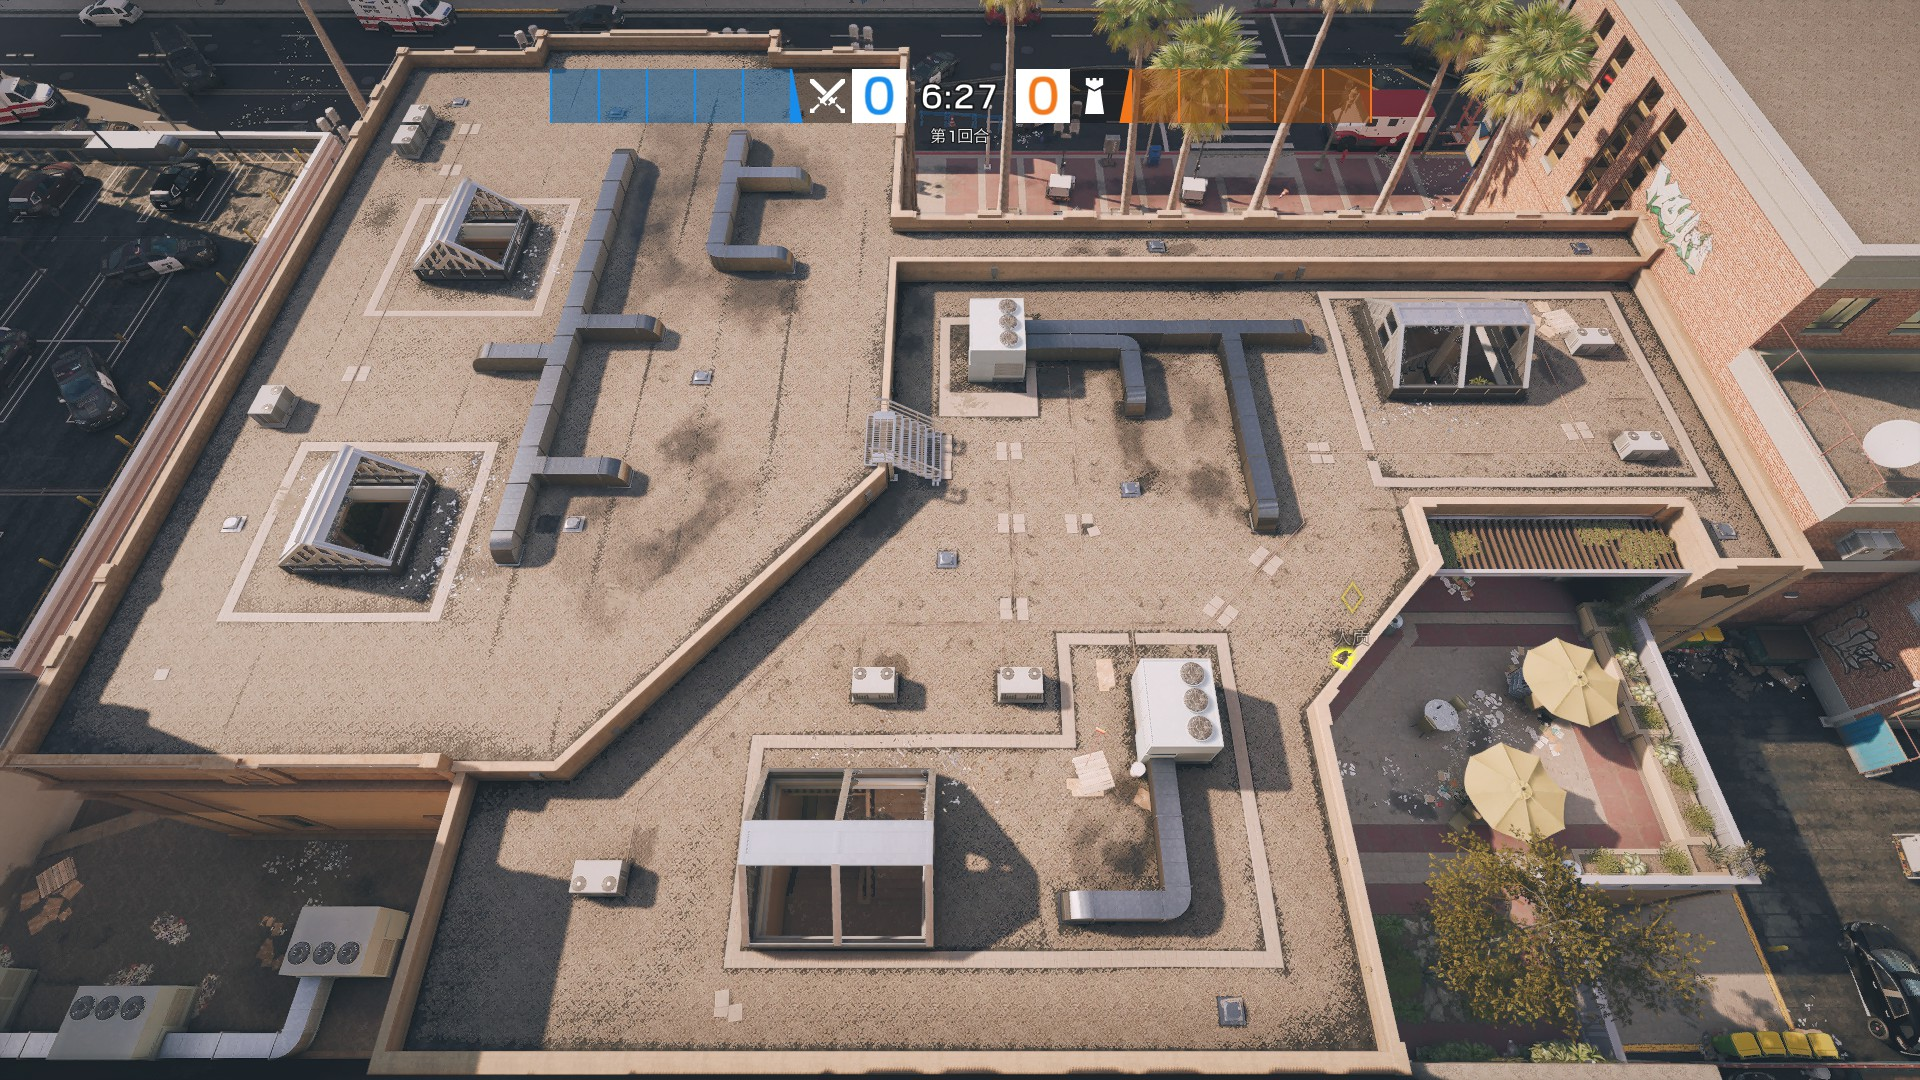
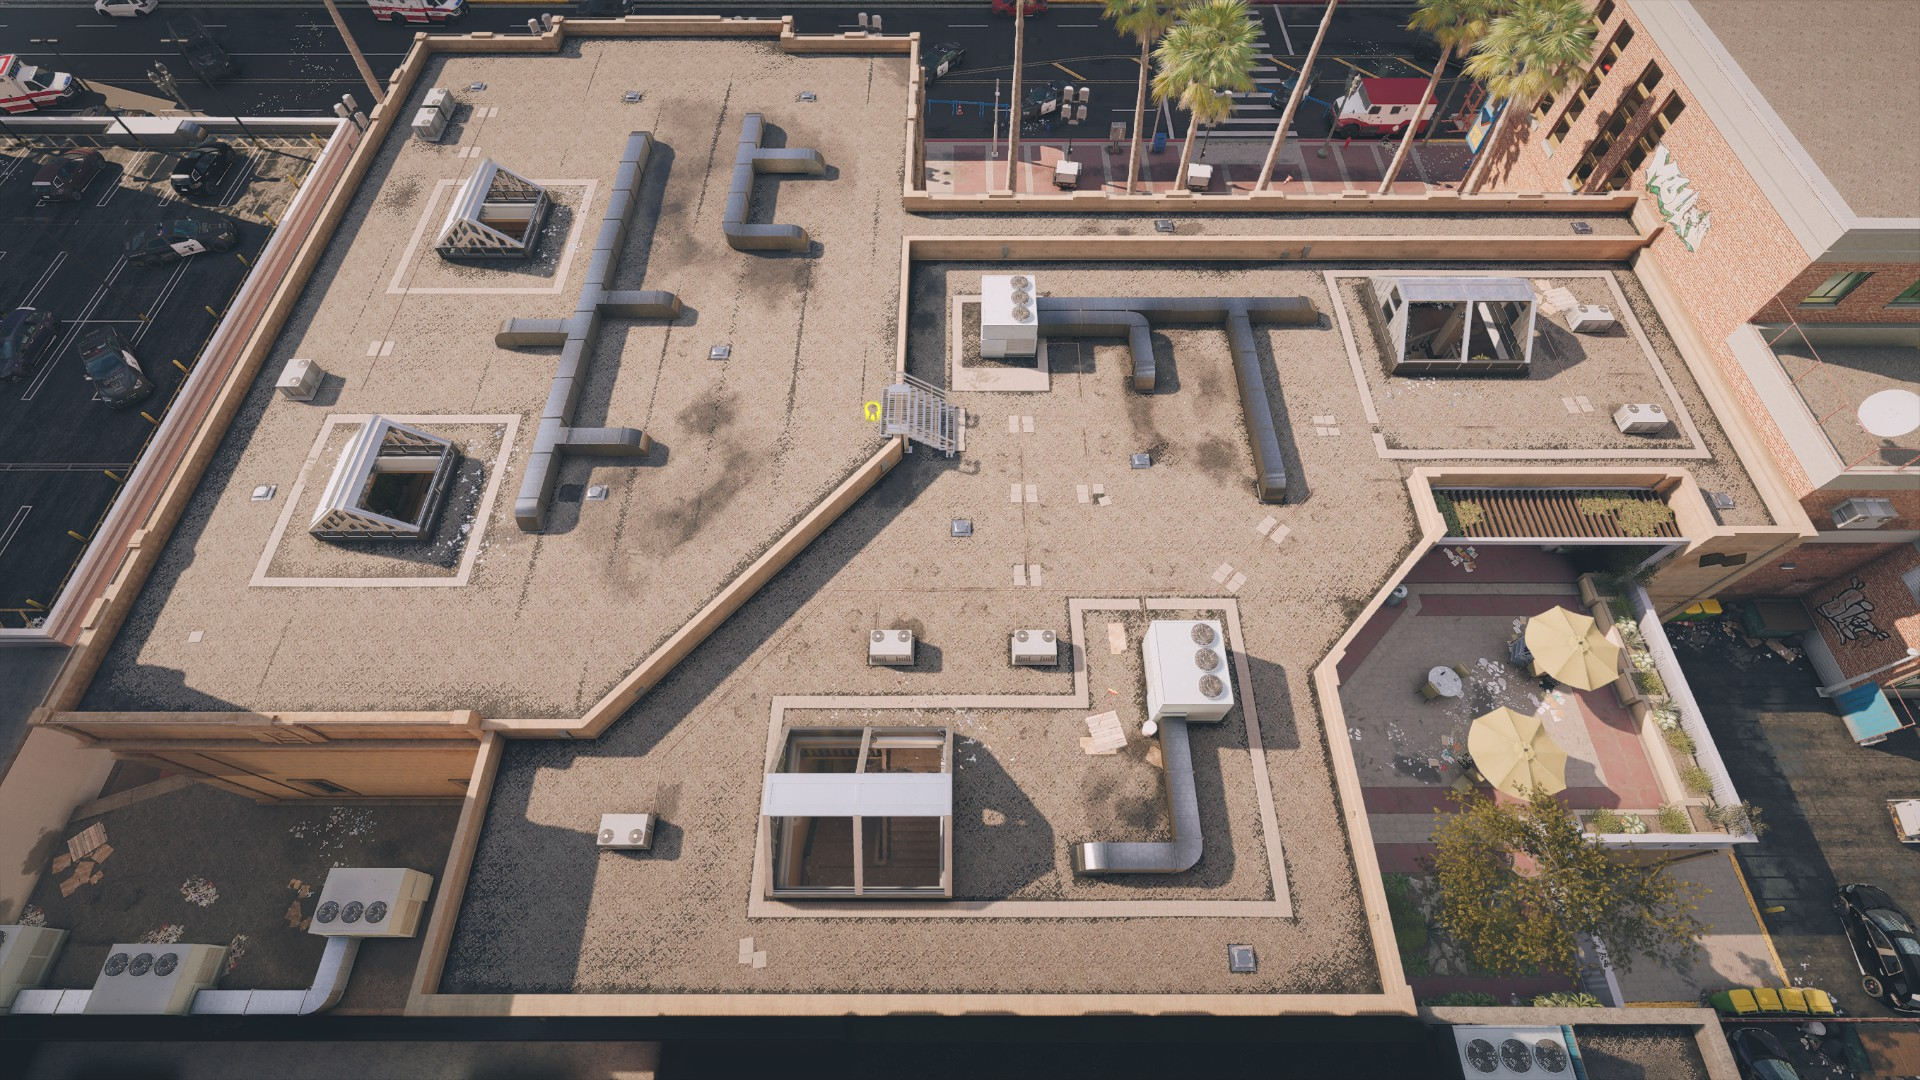
added mobile zoom, changed mobile style, replaced bank image

diff --git a/src/views/AppMap.vue b/src/views/AppMap.vue
@@ -1,6 +1,6 @@
 <template>
   <div class="has-background-black-bis" @wheel="onZoom($event)">
-    <v-stage v-if="this.$store.state.map" @load="addPinchZoom" ref="konva" :config="konvaConfig">
+    <v-stage ref="konva" :config="konvaConfig">
       <v-layer v-for="layer in this.$store.state.layers" :key="layer.id">
         <v-image
           v-if="layer.enabled && layer.complete"
@@ -14,6 +14,7 @@
 <script lang="ts">
 import { Component, Prop, Vue } from 'vue-property-decorator';
 import Konva from 'konva';
+import { Vector2d } from 'konva/types/types';
 
 @Component({
   components: {}
@@ -22,7 +23,7 @@ export default class AppMap extends Vue {
   public konvaConfig = {
     width: 1000,
     height: 1000,
-    draggable: true,
+    draggable: true
   };
 
   public $refs!: Vue['$refs'] & {
@@ -37,9 +38,11 @@ export default class AppMap extends Vue {
 
   public mounted() {
     window.addEventListener('resize', this.resizeHandle);
+    this.addPinchZoom();
     this.reloadCanvas();
   }
 
+  // should be only used on mobile
   public addPinchZoom() {
     function getDistance(p1: any, p2: any) {
       return Math.sqrt(Math.pow(p2.x - p1.x, 2) + Math.pow(p2.y - p1.y, 2));
@@ -50,37 +53,72 @@ export default class AppMap extends Vue {
     var height = window.innerHeight;
 
     var lastDist = 0;
-    var startScale = 1;
+    let oldCenter = { x: 1, y: 1 }; // placeholder data
     this.konva.on('touchmove', e => {
       e.evt.preventDefault();
       var touch1 = e.evt.touches[0];
       var touch2 = e.evt.touches[1];
 
       if (touch1 && touch2) {
+        let x1 = touch1.clientX;
+        let y1 = touch1.clientY;
+
+        let x2 = touch2.clientX;
+        let y2 = touch2.clientY;
+
         var dist = getDistance(
           {
-            x: touch1.clientX,
-            y: touch1.clientY
+            x: x1,
+            y: y1
           },
           {
-            x: touch2.clientX,
-            y: touch2.clientY
+            x: x2,
+            y: y2
           }
         );
-
-        if (!lastDist) {
+        let centerPos = {
+          x: (x1 + x2) / 2,
+          y: (y1 + y2) / 2
+        };
+        if (lastDist === 0) {
           lastDist = dist;
+          oldCenter = this.getRelativePointerPosition(this.konva, centerPos);
         }
 
-        var scale = (this.konva.scaleX() * dist) / lastDist;
+        var scale = this.konva.scaleX() * (dist / lastDist);
 
         scale = Math.max(0.3, Math.min(4, scale));
-
         this.konva.scaleX(scale);
         this.konva.scaleY(scale);
+
+        let curCenter = this.getRelativePointerPosition(this.konva, centerPos);
+
+
+        let ox = this.konva.offsetX();
+        let oy = this.konva.offsetY();
+        this.konva.offset({
+          x: ox + (oldCenter.x - curCenter.x),
+          y: oy + (oldCenter.y - curCenter.y)
+        });
+
         this.konva.batchDraw();
+
+        // after this event call ends,
+        // two finger point will continuously call events with new position,
+        // which comes with new center, and the center in previous call will be outdated,
+        // causing canvas to shake.
+        // to mitigate it, update to new center immediately after changing offset
+        curCenter = this. getRelativePointerPosition(this.konva, centerPos); 
+
+        this.offset = this.konva.offset();
+
+        this.scale = scale;
         lastDist = dist;
+        oldCenter = curCenter;
       }
+    });
+    this.konva.on('touchend', function() {
+      lastDist = 0;
     });
   }
 
@@ -171,17 +209,21 @@ export default class AppMap extends Vue {
     this.resizeCanva(ratio);
   }
 
-  public getRelativePointerPosition(node: Konva.Node) {
+  public getRelativePointerPosition(node: Konva.Node, pos?: Vector2d | null) {
     // the function will return pointer position relative to the passed node
-    var transform = node.getAbsoluteTransform().copy();
+    let transform = node.getAbsoluteTransform().copy();
+    
     // to detect relative position we need to invert transform
     transform.invert();
 
-    // get pointer (say mouse or touch) position
-    var pos = node.getStage()!.getPointerPosition();
-
+    if (!pos) {
+      // get pointer (say mouse or touch) position
+      pos = node.getStage()!.getPointerPosition();
+    }
     // now we find relative point
-    return transform.point(pos);
+    let result = transform.point(pos);
+
+    return result
   }
 }
 </script>

diff --git a/src/App.vue b/src/App.vue
@@ -1,5 +1,5 @@
 <template>
-  <div id="app" class>
+  <div id="app" :style="{'--vh': heightVar+'px'}">
     <div class="main">
       <aside class="nav">
         <AppNav></AppNav>
@@ -7,18 +7,16 @@
       <AppMap class="map"></AppMap>
     </div>
     <footer class="footer has-background-grey-lighter">
-      <div class="level">
-        <a class="level-item icon-link" href="https://github.com/UnluckyNinja/R6OB/" target="_blank">
-          <b-icon pack="fab" icon="github" type="is-dark" size="is-medium"></b-icon>
-        </a>
-        <p class="level-item">@2020 UnluckyNinja</p>
-      </div>
+      <a class="level-item icon-link" href="https://github.com/UnluckyNinja/R6OB/" target="_blank">
+        <b-icon pack="fab" icon="github" type="is-dark" size="is-medium"></b-icon>
+      </a>
+      <p class="level-item">@2020 UnluckyNinja</p>
     </footer>
   </div>
 </template>
 
 <script lang="ts">
-import { Component, Prop, Vue } from 'vue-property-decorator';
+import { Component, Prop, Vue, Watch } from 'vue-property-decorator';
 import AppNav from './views/AppNav.vue';
 import AppMap from './views/AppMap.vue';
 
@@ -29,7 +27,13 @@ import AppMap from './views/AppMap.vue';
   }
 })
 export default class App extends Vue {
+  public heightVar = window.innerHeight * 0.01;
+
   public mounted() {
+    window.addEventListener('resize', () => {
+      this.heightVar = window.innerHeight * 0.01;
+    });
+
     const locales = this.$i18n.messages;
     const defaultLocale = (() => {
       if (!navigator) {
@@ -57,7 +61,8 @@ export default class App extends Vue {
   text-align: center;
   color: #2c3e50;
 
-  height: 100vh;
+  height: 100vh; /* Fallback for browsers that do not support Custom Properties */
+  height: calc(var(--vh, 1vh) * 100);
   display: flex;
   flex-direction: column;
 }

diff --git a/src/views/AppNav.vue b/src/views/AppNav.vue
@@ -9,9 +9,8 @@
       <Menu class="menu"></Menu>
     </b-collapse>
     <div class="nav-handle" @click="isOpen = !isOpen">
-      <div>
-        <b-button :icon-left="isOpen? 'chevron-left': 'bars' " type="is-dark"></b-button>
-      </div>
+        <b-button class="nav-button" :icon-left="isOpen? 'chevron-left': 'bars' " type="is-dark"></b-button>
+
     </div>
   </div>
 </template>
@@ -56,9 +55,16 @@ div.nav-handle {
   padding-right: 0;
   transition: background-color 0.5s;
   transition-timing-function: ease;
-  &:hover {
-    cursor: pointer;
-    background-color: rgb(211, 211, 211);
+  @media (hover: hover) and (pointer: fine) {
+    &:hover {
+      cursor: pointer;
+      background-color: rgb(211, 211, 211);
+    }
+  }
+  @media not all and (pointer: fine) {
+    .nav-button {
+      height: 100%;
+    }
   }
 }
 </style>
